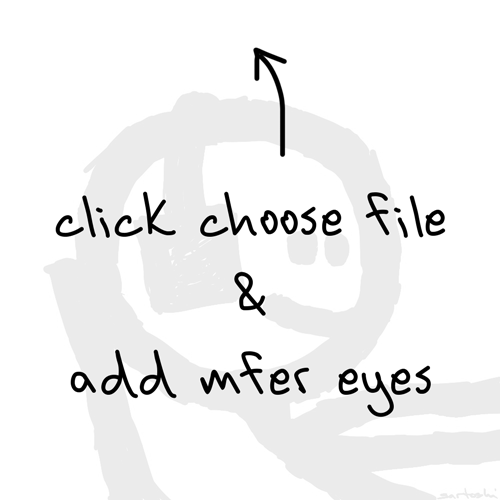
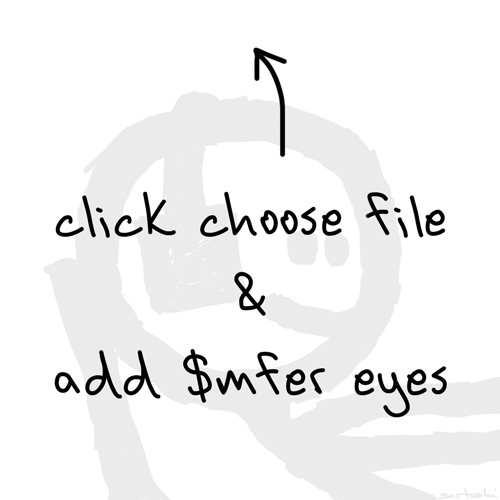
final readme changes

Changed region(s): [[0.09, 0.69, 0.9, 0.84]]

diff --git a/src/App.vue b/src/App.vue
@@ -8,12 +8,12 @@
       <div id="main-container">
         <input v-if="!imageUrl" type="file" ref="fileInput" @change="onFileChange" accept="image/*" />
         <div v-if="imageUrl" class="buttons">
-          <button v-if="imageUrl" @click="addOverlay">add mfer eyes</button>
-          <button v-if="overlays.length > 0" @click="deleteAllOverlays">delete all</button>
-          <button v-if="imageUrl" @click="capturePreview">download image</button>
-          <button v-if="imageUrl" @click="clearImage">clear image</button>
-          <button v-if="overlays.length > 0" @click="increaseOverlaySize">+</button>
+          <button v-if="overlays.length > 0" @click="deleteAllOverlays">clear image</button>
+          <button v-if="imageUrl" @click="clearImage">start over</button>
+          <button v-if="imageUrl && overlays.length > 0" @click="capturePreview">download</button>
+          <button v-if="imageUrl" @click="addOverlay">add $mfer eyes</button>
           <button v-if="overlays.length > 0" @click="decreaseOverlaySize">-</button>
+          <button v-if="overlays.length > 0" @click="increaseOverlaySize">+</button>
         </div>
         <div v-if="imageUrl" class="image-container" ref="previewContainer">
           <cropper
@@ -55,17 +55,16 @@
 
         <p class="instruction-title"><strong>3. Position and Resize</strong></p>
         <p class="shift">- Drag and resize to fit your eyes</p>
-
-        <p class="instruction-title"><strong>4. Edit and Customize</strong></p>
         <p class="shift">- Use "+" and "-" to adjust the size of the overlays</p>
 
-        <p class="instruction-title"><strong>5. Download</strong></p>
-        <p class="shift">- Click "download image" to save your masterpiece as <code>mfer-eyes.png</code></p>
+        <p class="instruction-title"><strong>4. Download</strong></p>
+        <p class="shift">- Click "download" to save your masterpiece to this device.</p>
 
-        <h3>Tips:</h3>
-        <p class="shift">To delete an overlay, select it and press "Delete" or "Backspace"</p>
       </div>
       <footer class="footer">
+        <p>
+          like it? send tips to cc0mfer.eth
+        </p>
         <p>
           This project is licensed under the <a href="https://creativecommons.org/publicdomain/zero/1.0/" target="_blank">CC0 License</a>.
           <br>
@@ -75,8 +74,6 @@
     </div>
   </div>
 </template>
-
-
 
 <script>
 import { ref, computed, nextTick } from 'vue';
@@ -407,7 +404,7 @@ button {
 
 .footer {
   margin-top: 20px;
-  font-size: 1em;
+  font-size: 1.3em;
   text-align: center;
   color: #666;
 }
@@ -420,5 +417,4 @@ button {
 .footer a:hover {
   text-decoration: underline;
 }
-
 </style>

diff --git a/README.md b/README.md
@@ -42,7 +42,7 @@ Follow these instructions to get a copy of the project up and running on your lo
 
 1. Clone the repository:
    ```sh
-   git clone https://github.com/your-username/mfervision.git
+   git clone https://github.com/cc0mfer/mfervision.git
    ```
 2. Navigate to the project directory:
    ```sh
